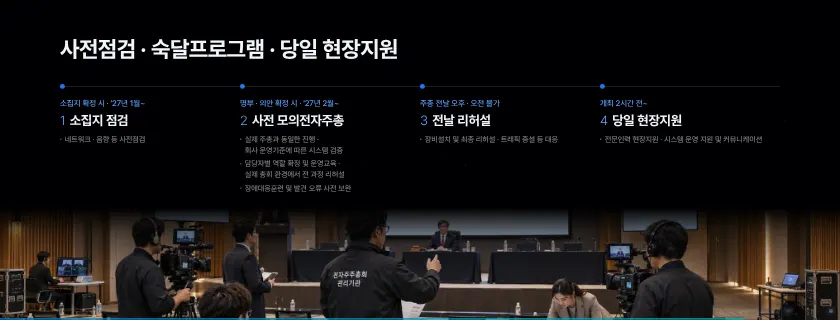
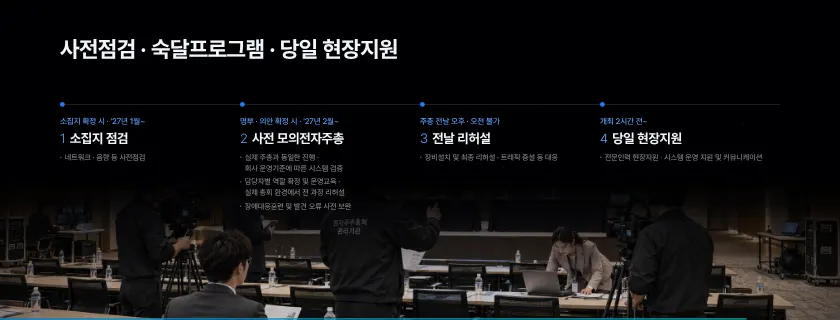
session4 K28c 아래 사진을 image/현장리허설.png로 교체 — 가로 꽉 · 아래 끝까지, 위쪽은 마스크 그라데이션 페더로 자연스럽게 사라짐, 타임라인을 제목과 더 띄움(top 430 → 520). K30 마지막 Get Ready. 그라데이션이 왼쪽 → 오른쪽으로 채워짐, y 아래 잘림 수정(글자 칠 영역 넓힘 · 점 글씨 y 꼬리 점 샘플링 보강)
Claude-Session: https://claude.ai/code/session_01Mn7NmyW5iujmmHnaRBFKBZ

diff --git a/sw.js b/sw.js
@@ -1,6 +1,6 @@
 /* 오프라인 캐시 — 온라인 주소(https)로 한 번 열면 모든 파일을 저장해 두고, 통신이 끊겨도 저장본으로 동작합니다. */
-const V='seminar-screen-11262320';
-const FILES=["./","assets/KakaoBigSans-Bold.woff2","assets/KakaoBigSans-Regular.woff2","assets/KakaoSmallSans-Bold.woff2","assets/KakaoSmallSans-Light.woff2","assets/KakaoSmallSans-Regular.woff2","assets/OrbitControls.js","assets/PretendardVariable.woff2","assets/attendees.js","assets/blue-bloom.html","assets/cong1.webp","assets/cong2.webp","assets/ds-bg.html","assets/four-states.html","assets/intro.mp4","assets/irk-white.svg","assets/irk-wordmark-white.svg","assets/kism-intro.mp4","assets/kism-white.svg","assets/ksmp-white.svg","assets/panel.js","assets/qa-online.js","assets/s2/img1.png","assets/s2/img2.png","assets/s2/img3.png","assets/s2/img4.png","assets/s4/aws.webp","assets/s4/callcenter.webp","assets/s4/chair-1.webp","assets/s4/chair-2.webp","assets/s4/chair-3.webp","assets/s4/conexus-word.webp","assets/s4/ctl-1.webp","assets/s4/cx-1.webp","assets/s4/cx-2.webp","assets/s4/cx-3.webp","assets/s4/cx-flow.mp4","assets/s4/cx-pop1.webp","assets/s4/cx-pop2.webp","assets/s4/cx-vote.mp4","assets/s4/cx-vote.webp","assets/s4/cxs-1.webp","assets/s4/insurance.webp","assets/s4/isms-t.webp","assets/s4/isms.webp","assets/s4/ismsp-t.webp","assets/s4/ismsp.webp","assets/s4/kosmos-white.png","assets/s4/ks-1.webp","assets/s4/ks-2.webp","assets/s4/ks-3.webp","assets/s4/ks-4.webp","assets/s4/ks-5.webp","assets/s4/ks-video.webp","assets/s4/live-1.webp","assets/s4/live-2.webp","assets/s4/live-3.webp","assets/s4/live-4.webp","assets/s4/live-5.webp","assets/s4/live-6.webp","assets/s4/live-7.webp","assets/s4/live-8.webp","assets/s4/logos.webp","assets/s4/ocr-1.webp","assets/s4/ocr-2.webp","assets/s4/ocr-3.webp","assets/s4/ocr-4.webp","assets/s4/ocr-5.webp","assets/s4/on-1.png","assets/s4/on-2.webp","assets/s4/on-3.webp","assets/s4/on-4.png","assets/s4/on-5.webp","assets/s4/onboard-1.webp","assets/s4/onboard-2.webp","assets/s4/privacy.webp","assets/s4/proxymity.svg","assets/s4/rehearsal.webp","assets/s4/streaming-korea.webp","assets/s4/tab-1.webp","assets/s4/tab-2.webp","assets/s4/team.webp","assets/sched.js","assets/screen-title-2.svg","assets/screen-title-b-text.svg","assets/screen-title-b.svg","assets/seat-banners.js","assets/seat-fascia.js","assets/seat-screen.js","assets/seatmap.js","assets/service-intro.mp4","assets/speaker-scott.webp","assets/speaker1-1.webp","assets/speaker2.webp","assets/speaker3-1.webp","assets/supabase.min.js","assets/three.min.js","assets/title-logos.svg","control.html","index-fs.html","index.html","kism.html","lobby/cuts.html","lobby/index.html","mc.html","session2.html","session4.html","sw.js","tools/s2_build.py","tools/s2_shell.html","assets/s3/p01.webp","assets/s3/p02.webp","assets/s3/p03.webp","assets/s3/p04.webp","assets/s3/p05.webp","assets/s3/p06.webp","assets/s3/p07.webp","assets/s3/p08.webp","assets/s3/p09.webp","assets/s3/p10.webp","assets/s3/p11.webp","assets/s3/p12.webp","assets/s3/p13.webp","assets/s3/p14.webp","assets/s3/p15.webp","assets/s3/p16.webp","assets/s3/p17.webp","assets/s3/p18.webp","assets/s3/p19.webp","assets/s3/p20.webp","assets/s3/p21.webp","assets/s3/p22.webp","assets/s3/p23.webp","assets/kism/photo-main.webp","assets/kism/photo-2.webp","assets/kism/photo-3.webp","assets/kism/photo-4.webp","assets/sound/countdown-tick.mp3","assets/sound/sfx-s3-part.mp3","assets/sound/sfx-s4-reveal.mp3","assets/sound/sfx-s5-proxymity.mp3","assets/sound/sfx-s6-chime.mp3","assets/sound/sfx-s7-close.mp3","assets/sound/opening-hit.mp3","assets/s4/kosmos-color.svg","assets/s4/ke-logo.png","assets/s4/ke-live.mp4","assets/kism/kwon-talk.mp4","assets/kism/manual-book.webp","kism-open.html","kism_16x9.html","led.html","assets/s4/cx-ops.mp4","assets/s4/cx-ops.webp","assets/s4/agent-app.mp4","assets/s4/kosmos-web.webp","assets/s4/ks-attend.mp4","assets/s4/ks-attend.webp","assets/s4/ks-switch.mp4","assets/s4/ks-switch.webp","assets/s4/ks-notify.mp4","assets/s4/ks-notify.webp","assets/s4/ks-vote.mp4","assets/s4/ks-vote.webp","assets/s4/ks-qna.mp4","assets/s4/ks-qna.webp","assets/s4/pc-map.webp","assets/s4/pc-map.mp4","assets/s4/agent-app.webp","assets/s4/k24b-bg.webp","session0.html","face.html","assets/face-link.js","assets/kism/photo-main-cut.webp","assets/s4/cx-chair.mp4","assets/s4/cx-chair.webp","assets/s4/cx-test.mp4","assets/s4/cx-test.webp","assets/s4/onboard-mgr.webp","assets/s4/proxymity-logo.png","assets/s4/k21-bg.webp","assets/s4/kosmos-admin-white.svg","assets/kism-intro-16x9.mp4","assets/seat-guide.html","assets/s4/app-icon-agent.svg","assets/ds-main.mp4","assets/s4/k2-agency.webp","assets/s4/k2-support.webp","assets/s4/thumbs/K00.webp","assets/s4/thumbs/K01.webp","assets/s4/thumbs/K02.webp","assets/s4/thumbs/K03.webp","assets/s4/thumbs/K04.webp","assets/s4/thumbs/K05.webp","assets/s4/thumbs/K06.webp","assets/s4/thumbs/K07.webp","assets/s4/thumbs/K08.webp","assets/s4/thumbs/K09.webp","assets/s4/thumbs/K10.webp","assets/s4/thumbs/K11.webp","assets/s4/thumbs/K12.webp","assets/s4/thumbs/K13.webp","assets/s4/thumbs/K14.webp","assets/s4/thumbs/K15.webp","assets/s4/thumbs/K16.webp","assets/s4/thumbs/K17.webp","assets/s4/thumbs/K18a.webp","assets/s4/thumbs/K18b.webp","assets/s4/thumbs/K18c.webp","assets/s4/thumbs/K19.webp","assets/s4/thumbs/K19b.webp","assets/s4/thumbs/K19c.webp","assets/s4/thumbs/K20.webp","assets/s4/thumbs/K21.webp","assets/s4/thumbs/K21b.webp","assets/s4/thumbs/K22s.webp","assets/s4/thumbs/K23.webp","assets/s4/thumbs/K23b.webp","assets/s4/thumbs/K24a.webp","assets/s4/thumbs/K24b.webp","assets/s4/thumbs/K24c.webp","assets/s4/thumbs/K25.webp","assets/s4/thumbs/K25b.webp","assets/s4/thumbs/K26.webp","assets/s4/thumbs/K27.webp","assets/s4/thumbs/K28a.webp","assets/s4/thumbs/K28b.webp","assets/s4/thumbs/K28c.webp","assets/s4/thumbs/K28d.webp","assets/s4/thumbs/K29.webp","assets/s4/thumbs/K30.webp","assets/s4/thumbs/K09b.webp","assets/s4/thumbs/K28e.webp","assets/s4/thumbs/K28p.webp","assets/s4/onsite-vote.mp4","assets/s4/onsite-vote.webp"];
+const V='seminar-screen-11262315';
+const FILES=["./","assets/KakaoBigSans-Bold.woff2","assets/KakaoBigSans-Regular.woff2","assets/KakaoSmallSans-Bold.woff2","assets/KakaoSmallSans-Light.woff2","assets/KakaoSmallSans-Regular.woff2","assets/OrbitControls.js","assets/PretendardVariable.woff2","assets/attendees.js","assets/blue-bloom.html","assets/cong1.webp","assets/cong2.webp","assets/ds-bg.html","assets/four-states.html","assets/intro.mp4","assets/irk-white.svg","assets/irk-wordmark-white.svg","assets/kism-intro.mp4","assets/kism-white.svg","assets/ksmp-white.svg","assets/panel.js","assets/qa-online.js","assets/s2/img1.png","assets/s2/img2.png","assets/s2/img3.png","assets/s2/img4.png","assets/s4/aws.webp","assets/s4/callcenter.webp","assets/s4/chair-1.webp","assets/s4/chair-2.webp","assets/s4/chair-3.webp","assets/s4/conexus-word.webp","assets/s4/ctl-1.webp","assets/s4/cx-1.webp","assets/s4/cx-2.webp","assets/s4/cx-3.webp","assets/s4/cx-flow.mp4","assets/s4/cx-pop1.webp","assets/s4/cx-pop2.webp","assets/s4/cx-vote.mp4","assets/s4/cx-vote.webp","assets/s4/cxs-1.webp","assets/s4/insurance.webp","assets/s4/isms-t.webp","assets/s4/isms.webp","assets/s4/ismsp-t.webp","assets/s4/ismsp.webp","assets/s4/kosmos-white.png","assets/s4/ks-1.webp","assets/s4/ks-2.webp","assets/s4/ks-3.webp","assets/s4/ks-4.webp","assets/s4/ks-5.webp","assets/s4/ks-video.webp","assets/s4/live-1.webp","assets/s4/live-2.webp","assets/s4/live-3.webp","assets/s4/live-4.webp","assets/s4/live-5.webp","assets/s4/live-6.webp","assets/s4/live-7.webp","assets/s4/live-8.webp","assets/s4/logos.webp","assets/s4/ocr-1.webp","assets/s4/ocr-2.webp","assets/s4/ocr-3.webp","assets/s4/ocr-4.webp","assets/s4/ocr-5.webp","assets/s4/on-1.png","assets/s4/on-2.webp","assets/s4/on-3.webp","assets/s4/on-4.png","assets/s4/on-5.webp","assets/s4/onboard-1.webp","assets/s4/onboard-2.webp","assets/s4/privacy.webp","assets/s4/proxymity.svg","assets/s4/rehearsal.webp","assets/s4/streaming-korea.webp","assets/s4/tab-1.webp","assets/s4/tab-2.webp","assets/s4/team.webp","assets/sched.js","assets/screen-title-2.svg","assets/screen-title-b-text.svg","assets/screen-title-b.svg","assets/seat-banners.js","assets/seat-fascia.js","assets/seat-screen.js","assets/seatmap.js","assets/service-intro.mp4","assets/speaker-scott.webp","assets/speaker1-1.webp","assets/speaker2.webp","assets/speaker3-1.webp","assets/supabase.min.js","assets/three.min.js","assets/title-logos.svg","control.html","index-fs.html","index.html","kism.html","lobby/cuts.html","lobby/index.html","mc.html","session2.html","session4.html","sw.js","tools/s2_build.py","tools/s2_shell.html","assets/s3/p01.webp","assets/s3/p02.webp","assets/s3/p03.webp","assets/s3/p04.webp","assets/s3/p05.webp","assets/s3/p06.webp","assets/s3/p07.webp","assets/s3/p08.webp","assets/s3/p09.webp","assets/s3/p10.webp","assets/s3/p11.webp","assets/s3/p12.webp","assets/s3/p13.webp","assets/s3/p14.webp","assets/s3/p15.webp","assets/s3/p16.webp","assets/s3/p17.webp","assets/s3/p18.webp","assets/s3/p19.webp","assets/s3/p20.webp","assets/s3/p21.webp","assets/s3/p22.webp","assets/s3/p23.webp","assets/kism/photo-main.webp","assets/kism/photo-2.webp","assets/kism/photo-3.webp","assets/kism/photo-4.webp","assets/sound/countdown-tick.mp3","assets/sound/sfx-s3-part.mp3","assets/sound/sfx-s4-reveal.mp3","assets/sound/sfx-s5-proxymity.mp3","assets/sound/sfx-s6-chime.mp3","assets/sound/sfx-s7-close.mp3","assets/sound/opening-hit.mp3","assets/s4/kosmos-color.svg","assets/s4/ke-logo.png","assets/s4/ke-live.mp4","assets/kism/kwon-talk.mp4","assets/kism/manual-book.webp","kism-open.html","kism_16x9.html","led.html","assets/s4/cx-ops.mp4","assets/s4/cx-ops.webp","assets/s4/agent-app.mp4","assets/s4/kosmos-web.webp","assets/s4/ks-attend.mp4","assets/s4/ks-attend.webp","assets/s4/ks-switch.mp4","assets/s4/ks-switch.webp","assets/s4/ks-notify.mp4","assets/s4/ks-notify.webp","assets/s4/ks-vote.mp4","assets/s4/ks-vote.webp","assets/s4/ks-qna.mp4","assets/s4/ks-qna.webp","assets/s4/pc-map.webp","assets/s4/pc-map.mp4","assets/s4/agent-app.webp","assets/s4/k24b-bg.webp","session0.html","face.html","assets/face-link.js","assets/kism/photo-main-cut.webp","assets/s4/cx-chair.mp4","assets/s4/cx-chair.webp","assets/s4/cx-test.mp4","assets/s4/cx-test.webp","assets/s4/onboard-mgr.webp","assets/s4/proxymity-logo.png","assets/s4/k21-bg.webp","assets/s4/kosmos-admin-white.svg","assets/kism-intro-16x9.mp4","assets/seat-guide.html","assets/s4/app-icon-agent.svg","assets/ds-main.mp4","assets/s4/k2-agency.webp","assets/s4/k2-support.webp","assets/s4/thumbs/K00.webp","assets/s4/thumbs/K01.webp","assets/s4/thumbs/K02.webp","assets/s4/thumbs/K03.webp","assets/s4/thumbs/K04.webp","assets/s4/thumbs/K05.webp","assets/s4/thumbs/K06.webp","assets/s4/thumbs/K07.webp","assets/s4/thumbs/K08.webp","assets/s4/thumbs/K09.webp","assets/s4/thumbs/K10.webp","assets/s4/thumbs/K11.webp","assets/s4/thumbs/K12.webp","assets/s4/thumbs/K13.webp","assets/s4/thumbs/K14.webp","assets/s4/thumbs/K15.webp","assets/s4/thumbs/K16.webp","assets/s4/thumbs/K17.webp","assets/s4/thumbs/K18a.webp","assets/s4/thumbs/K18b.webp","assets/s4/thumbs/K18c.webp","assets/s4/thumbs/K19.webp","assets/s4/thumbs/K19b.webp","assets/s4/thumbs/K19c.webp","assets/s4/thumbs/K20.webp","assets/s4/thumbs/K21.webp","assets/s4/thumbs/K21b.webp","assets/s4/thumbs/K22s.webp","assets/s4/thumbs/K23.webp","assets/s4/thumbs/K23b.webp","assets/s4/thumbs/K24a.webp","assets/s4/thumbs/K24b.webp","assets/s4/thumbs/K24c.webp","assets/s4/thumbs/K25.webp","assets/s4/thumbs/K25b.webp","assets/s4/thumbs/K26.webp","assets/s4/thumbs/K27.webp","assets/s4/thumbs/K28a.webp","assets/s4/thumbs/K28b.webp","assets/s4/thumbs/K28c.webp","assets/s4/thumbs/K28d.webp","assets/s4/thumbs/K29.webp","assets/s4/thumbs/K30.webp","assets/s4/thumbs/K09b.webp","assets/s4/thumbs/K28e.webp","assets/s4/thumbs/K28p.webp","assets/s4/onsite-vote.mp4","assets/s4/onsite-vote.webp","assets/s4/rehearsal-site.webp"];
 self.addEventListener('install',e=>{e.waitUntil(caches.open(V).then(c=>c.addAll(FILES)).then(()=>self.skipWaiting()));});
 self.addEventListener('activate',e=>{e.waitUntil(caches.keys().then(ks=>Promise.all(ks.filter(k=>k!==V).map(k=>caches.delete(k)))).then(()=>self.clients.claim()));});
 async function rangeFrom(res,range){const buf=await res.arrayBuffer(),m=/bytes=(\d*)-(\d*)/.exec(range)||[],s=m[1]?+m[1]:0,end=m[2]?+m[2]:buf.byteLength-1;
